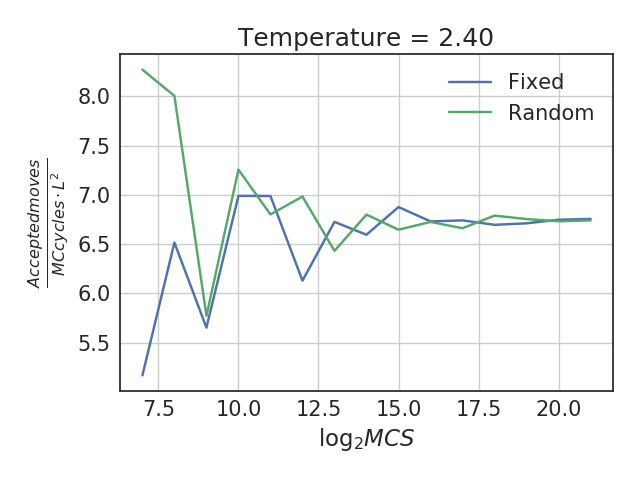
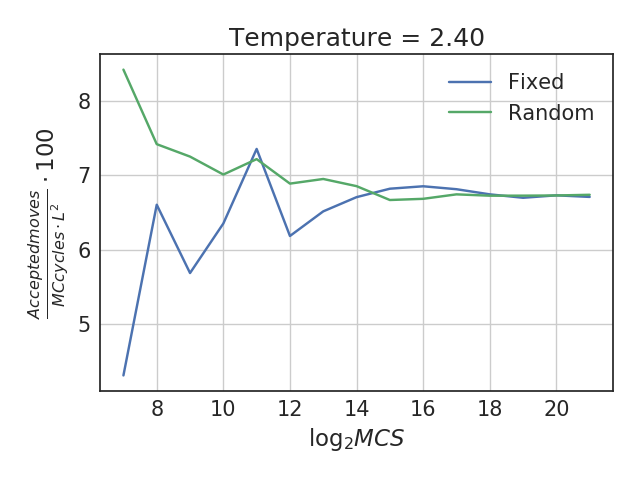
4c plots

diff --git a/project4/runProject4.py b/project4/runProject4.py
@@ -127,9 +127,9 @@ class Project4:
             fig5, ax5 = plt.subplots()
 
             ax2.set_xlabel(r'$\log_{2} MCS$')
-            ax2.set_ylabel(r"$\frac{<E>}{l^2}$")
+            ax2.set_ylabel(r"$\frac{<E>}{L^2}$")
             ax3.set_xlabel(r'$\log_{2} MCS$')
-            ax3.set_ylabel(r"$\frac{<|M|>}{l^2}$")
+            ax3.set_ylabel(r"$\frac{<|M|>}{L^2}$")
             
             ax5.set_xlabel(r'$\log_{2} MCS$')
             ax5.set_ylabel(r"$\frac{Accepted moves}{MC cycles \cdot L^2} \cdot 100$")
